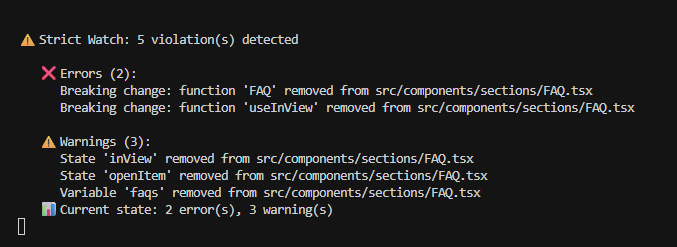
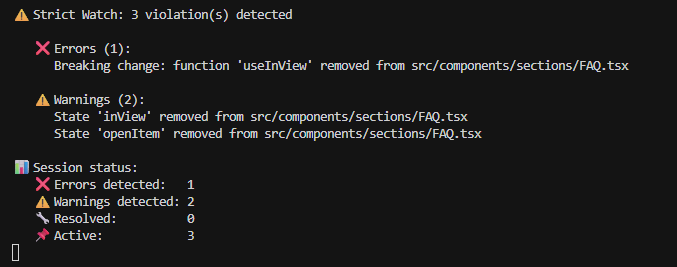
Release v0.7.1 (#132)
- Bump version to v0.7.1
- Update CHANGELOG
- Update package.json and package-lock.json
- Update roadmap version and watch mode notes

diff --git a/CHANGELOG.md b/CHANGELOG.md
@@ -19,6 +19,51 @@ See [docs/limitations.md](docs/limitations.md).
 
 ---
 
+## [0.7.1] - 2026-03-05
+
+### Improved
+
+- **Session status tracking for strict watch mode** ([#124](https://github.com/LogicStamp/logicstamp-context/pull/124))  
+  - Added session-level statistics for errors, warnings, and resolved violations  
+  - Status block now shows cumulative session metrics and active violations  
+  - Output only updates when violations change to keep watch mode clean  
+  - Added backward compatibility for existing status files and test coverage
+
+- **Enhanced strict watch session summary** ([#126](https://github.com/LogicStamp/logicstamp-context/pull/126))  
+  - Session completion message now reflects detected violations with contextual emoji (✅ none, ⚠ warnings, ❌ errors)  
+  - Displays properly pluralized error/warning counts  
+  - Updated watch mode messaging and docs with examples of all status outcomes
+
+- **Normalized path display across all commands** ([#127](https://github.com/LogicStamp/logicstamp-context/pull/127))  
+  - Added `displayProjectRoot()` and `displayFilePath()` utilities for consistent path formatting  
+  - Paths now display as relative when possible (e.g., `src/context.json`) instead of long absolute paths  
+  - Updated `stamp context`, validation output, and watch mode to use the shared utilities  
+  - Removed duplicated path formatting logic in `watchMode.ts`  
+  - Added unit tests and updated watch mode test mocks for the new utilities
+
+- **Added `--verbose` flag for detailed bundle output** ([#128](https://github.com/LogicStamp/logicstamp-context/pull/128))  
+  - Bundle checkmarks (e.g., `✓ src/app/context.json (2 bundles)`) now only appear when `--verbose` is used  
+  - Default output shows only summary messages: "📝 Writing main context index..." and "✅ XX context files written successfully"  
+  - Use `stamp context --verbose` or `stamp context style --verbose` to see detailed per-file output  
+  - Updated documentation, added unit tests for flag parsing, and e2e tests for output behavior
+
+- **`--strict-watch` now automatically enables watch mode** ([#129](https://github.com/LogicStamp/logicstamp-context/pull/129))  
+  - `stamp context --strict-watch` now works standalone without requiring `--watch` flag  
+  - Both `stamp context --strict-watch` and `stamp context --watch --strict-watch` are equivalent and fully supported for backward compatibility  
+  - Updated help text and documentation to reflect the simplified usage  
+  - Added unit tests to verify the automatic watch mode enablement
+
+### Refactor
+
+- **Organized watch mode files into dedicated folder** ([#130](https://github.com/LogicStamp/logicstamp-context/pull/130))  
+  - Moved `incrementalWatch.ts`, `watchDiff.ts`, and `watchMode.ts` into `src/cli/commands/context/watchMode/` folder  
+  - Created `watchMode/index.ts` barrel export for cleaner module organization  
+  - Updated all imports across codebase and test files to use new paths  
+  - Improved module structure and maintainability without changing functionality
+
+
+---
+
 ## [0.7.0] - 2026-03-03
 
 ### ⚠ Breaking Changes
@@ -1454,7 +1499,8 @@ First public release of LogicStamp Context - a fast, zero-config CLI tool that g
 ---
 
 ## Version links
-[Unreleased]: https://github.com/LogicStamp/logicstamp-context/compare/v0.7.0...HEAD
+[Unreleased]: https://github.com/LogicStamp/logicstamp-context/compare/v0.7.1...HEAD
+[0.7.1]: https://github.com/LogicStamp/logicstamp-context/releases/tag/v0.7.1
 [0.7.0]: https://github.com/LogicStamp/logicstamp-context/releases/tag/v0.7.0
 [0.6.0]: https://github.com/LogicStamp/logicstamp-context/releases/tag/v0.6.0
 [0.5.5]: https://github.com/LogicStamp/logicstamp-context/releases/tag/v0.5.5

diff --git a/ROADMAP.md b/ROADMAP.md
@@ -4,11 +4,13 @@ This roadmap outlines the planned features, improvements, and known limitations 
 
 ## Current Status
 
-**Current Version:** v0.7.0 (Beta)
+**Current Version:** v0.7.1 (Beta)
 
 For detailed release notes and completed features, see [CHANGELOG.md](CHANGELOG.md).
 
 Recent major milestones include:
+- ✅ Strict watch mode enhancements (v0.7.1) - Session status tracking, automatic watch enablement, enhanced summaries
+- ✅ Developer experience improvements (v0.7.1) - Normalized path display, `--verbose` flag, watch mode file organization
 - ✅ Lean style mode default (v0.7.0)
 - ✅ Runtime schema validation and security hardening (v0.6.0)
 - ✅ Strict watch mode for breaking change detection (v0.5.0)
@@ -275,7 +277,7 @@ Add support for JavaScript (`.js`) and JSX (`.jsx`) files in addition to TypeScr
 ---
 
 #### 3. Watch Mode
-**Status:** ✅ **Complete (v0.4.1)**
+**Status:** ✅ **Complete (v0.4.1)** - Enhanced in v0.7.1
 
 Automatic context regeneration when source files change.
 
@@ -290,7 +292,15 @@ Automatic context regeneration when source files change.
 - Log file (`--log-file`) for structured change logs (`.logicstamp/context_watch-mode-logs.json`) - opt-in for change notifications
 - `watch-fast` profile for lighter style extraction
 
-**Impact:** Improves developer experience by automatically keeping context files in sync with code changes.
+**Enhancements (v0.7.1):**
+- ✅ Session status tracking for strict watch mode (cumulative errors/warnings, resolved count, active violations)
+- ✅ `--strict-watch` automatically enables watch mode (simplified usage: `stamp context --strict-watch`)
+- ✅ Enhanced session summary with contextual emoji and proper pluralization
+- ✅ Normalized path display across all commands (relative paths when possible)
+- ✅ `--verbose` flag for detailed bundle output (per-file checkmarks)
+- ✅ Improved watch mode file organization and module structure
+
+**Impact:** Improves developer experience by automatically keeping context files in sync with code changes. Enhanced strict watch mode provides better visibility into breaking changes during development.
 
 **Priority:** ~~Medium~~ Complete
 
@@ -572,6 +582,9 @@ export type UIFContract = ReactUIFContract | BackendUIFContract | VueUIFContract
 - **Additional output formats** - More format options for different AI workflow patterns
 
 ### Developer Experience
+- ✅ **Normalized path display** (v0.7.1) - Consistent relative path formatting across all commands
+- ✅ **Verbose output flag** (v0.7.1) - `--verbose` flag for detailed per-file bundle output
+- ✅ **Watch mode improvements** (v0.7.1) - Enhanced strict watch session tracking and simplified usage
 - **Integration examples** - Examples for popular AI assistants (Cursor, Claude Desktop, GitHub Copilot Chat)
 - **Advanced debugging tools** - Better diagnostics and troubleshooting capabilities
 
